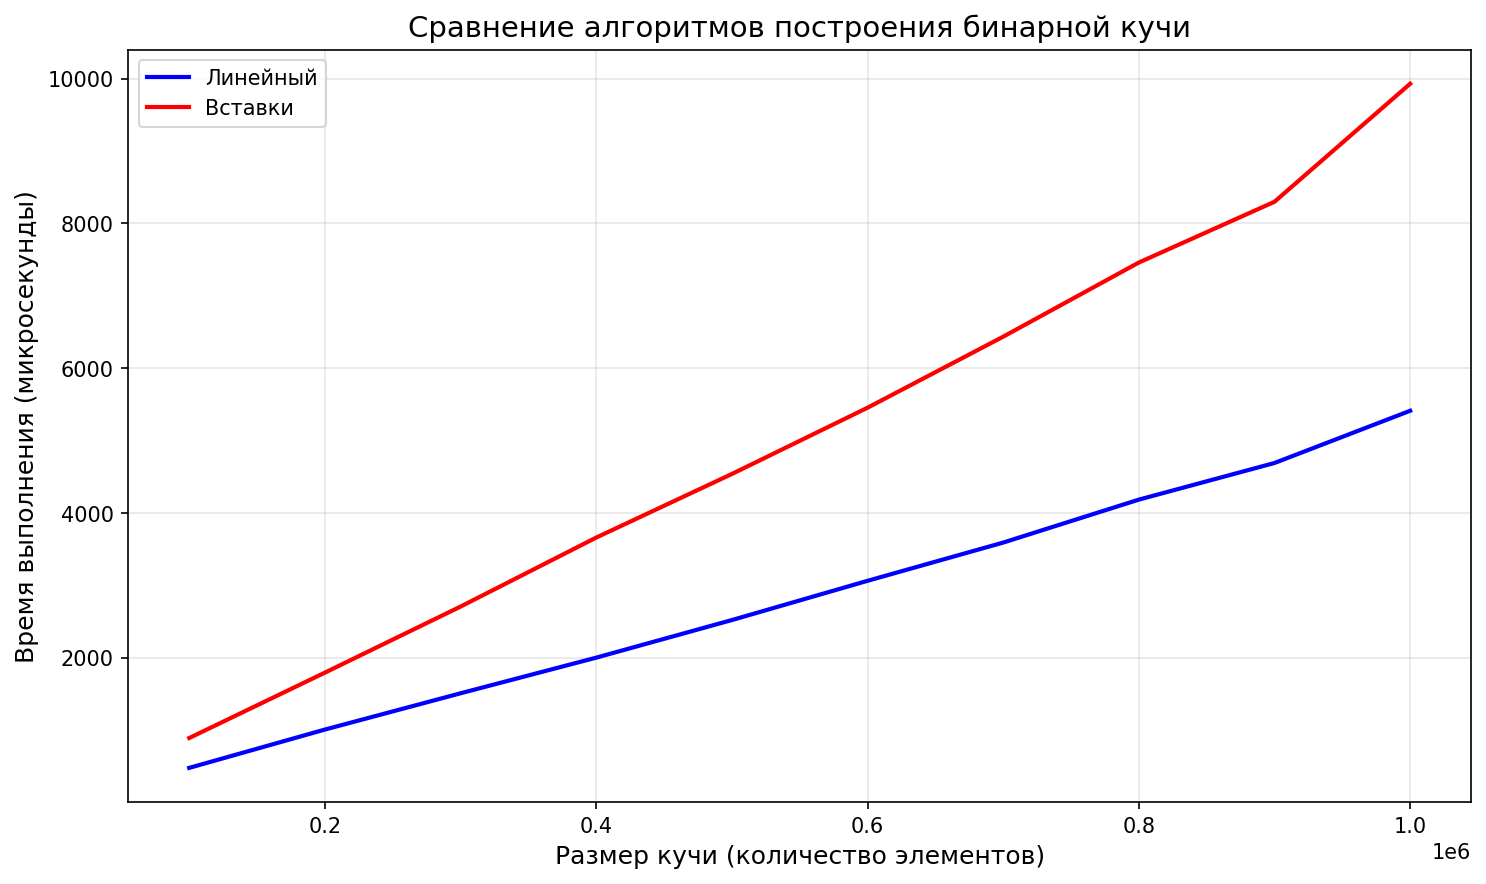
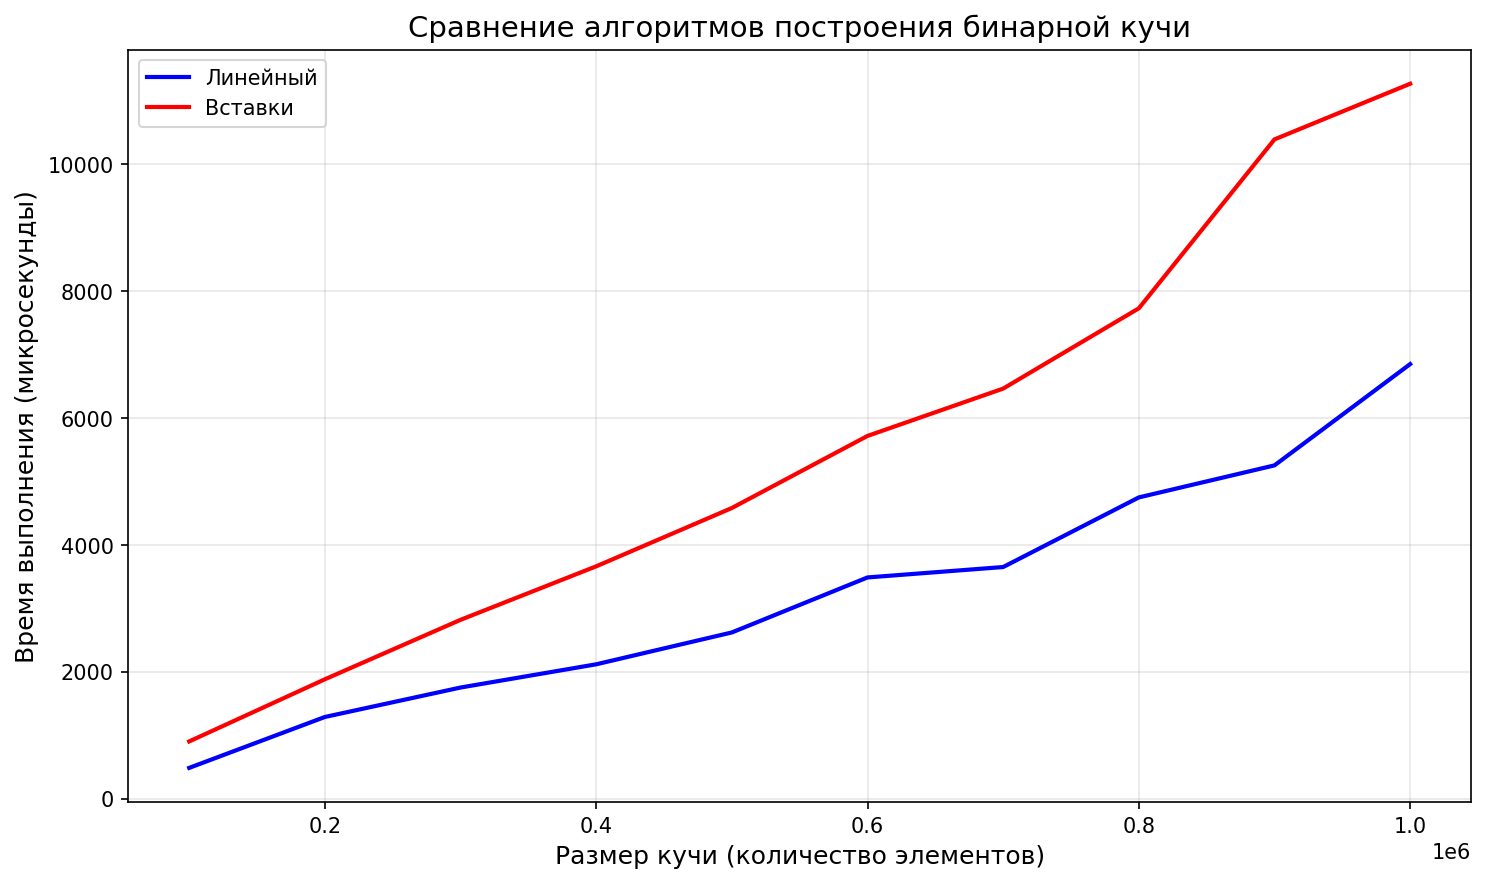
Fixed binomial heap and added binary heap to the second plot

diff --git a/scripts/plot_results.py b/scripts/plot_results.py
@@ -68,7 +68,7 @@ def plot_binary_heap_results(sizes, linear_times, insertions_times):
 def plot_binomial_heap_results(sizes, times):
     plt.figure(figsize=(10, 6))
     
-    plt.plot(sizes, times, 'm-', linewidth=2, label='Экспериментальные данные')
+    plt.plot(sizes, times, 'm-', linewidth=2, label='Биномиальная куча')
     
     if len(sizes) > 1:
         z = np.polyfit(sizes, times, 1)
@@ -76,9 +76,15 @@ def plot_binomial_heap_results(sizes, times):
         plt.plot(sizes, p(sizes), '--', color='orange', linewidth=2, 
                 label=f'Линейная аппроксимация: {z[0]:.2f}·n + {z[1]:.0f}', alpha=0.7)
     
+    # Запускаем бинарную кучу и добавляем на график
+    bin_sizes, linear_times, insertions_times = run_binary_heap_test()
+    if bin_sizes and linear_times:
+        plt.plot(bin_sizes, linear_times, 'g-', linewidth=2, label='Бинарная куча (линейный)')
+        plt.plot(bin_sizes, insertions_times, 'c-', linewidth=2, label='Бинарная куча (вставки)')
+    
     plt.xlabel('Размер кучи (количество элементов)', fontsize=12)
     plt.ylabel('Время выполнения (микросекунды)', fontsize=12)
-    plt.title('Построение биномиальной кучи вставками', fontsize=14)
+    plt.title('Построение куч вставками', fontsize=14)
     plt.legend(fontsize=10)
     plt.grid(True, alpha=0.3)
     
@@ -94,7 +100,7 @@ def main():
     else:
         print("Не удалось получить результаты")
     
-    # Биномиальная куча
+    # Биномиальная куча с добавлением бинарной
     sizes, times = run_binomial_heap_test()
     if sizes and times:
         plot_binomial_heap_results(sizes, times)

diff --git a/src/binomial_heap.c b/src/binomial_heap.c
@@ -118,6 +118,56 @@ static Node* binomial_heap_union_heaps(Node* head1, Node* head2)
     return new_head;
 }
 
+static Node* binomial_heap_insert_root(Node* head, Node* node)
+{
+    node->sibling = head;
+    return node;
+}
+
+static Node* binomial_heap_fix_heap(Node* head)
+{
+    if (!head) return NULL;
+    
+    Node* prev = NULL;
+    Node* curr = head;
+    Node* next = curr->sibling;
+    
+    while (next)
+    {
+        if (curr->degree != next->degree ||
+            (next->sibling && next->sibling->degree == curr->degree))
+        {
+            prev = curr;
+            curr = next;
+            next = curr->sibling;
+        }
+        else
+        {
+            if (curr->key <= next->key)
+            {
+                curr->sibling = next->sibling;
+                curr = binomial_heap_merge_trees(curr, next);
+            }
+            else
+            {
+                if (prev)
+                {
+                    prev->sibling = next;
+                }
+                else
+                {
+                    head = next;
+                }
+                next = binomial_heap_merge_trees(next, curr);
+                curr = next;
+            }
+        }
+        next = curr->sibling;
+    }
+    
+    return head;
+}
+
 void binomial_heap_init(BinomialHeap* heap)
 {
     assert(heap != NULL);
@@ -132,8 +182,8 @@ Status binomial_heap_insert(BinomialHeap* heap, int key)
     Node* node = binomial_heap_create_node(key);
     if (!node) return ERROR;
     
-    heap->head = binomial_heap_union_heaps(heap->head, node);
-    assert(heap->head != NULL);
+    heap->head = binomial_heap_insert_root(heap->head, node);
+    heap->head = binomial_heap_fix_heap   (heap->head);
     
     return OK;
 }
